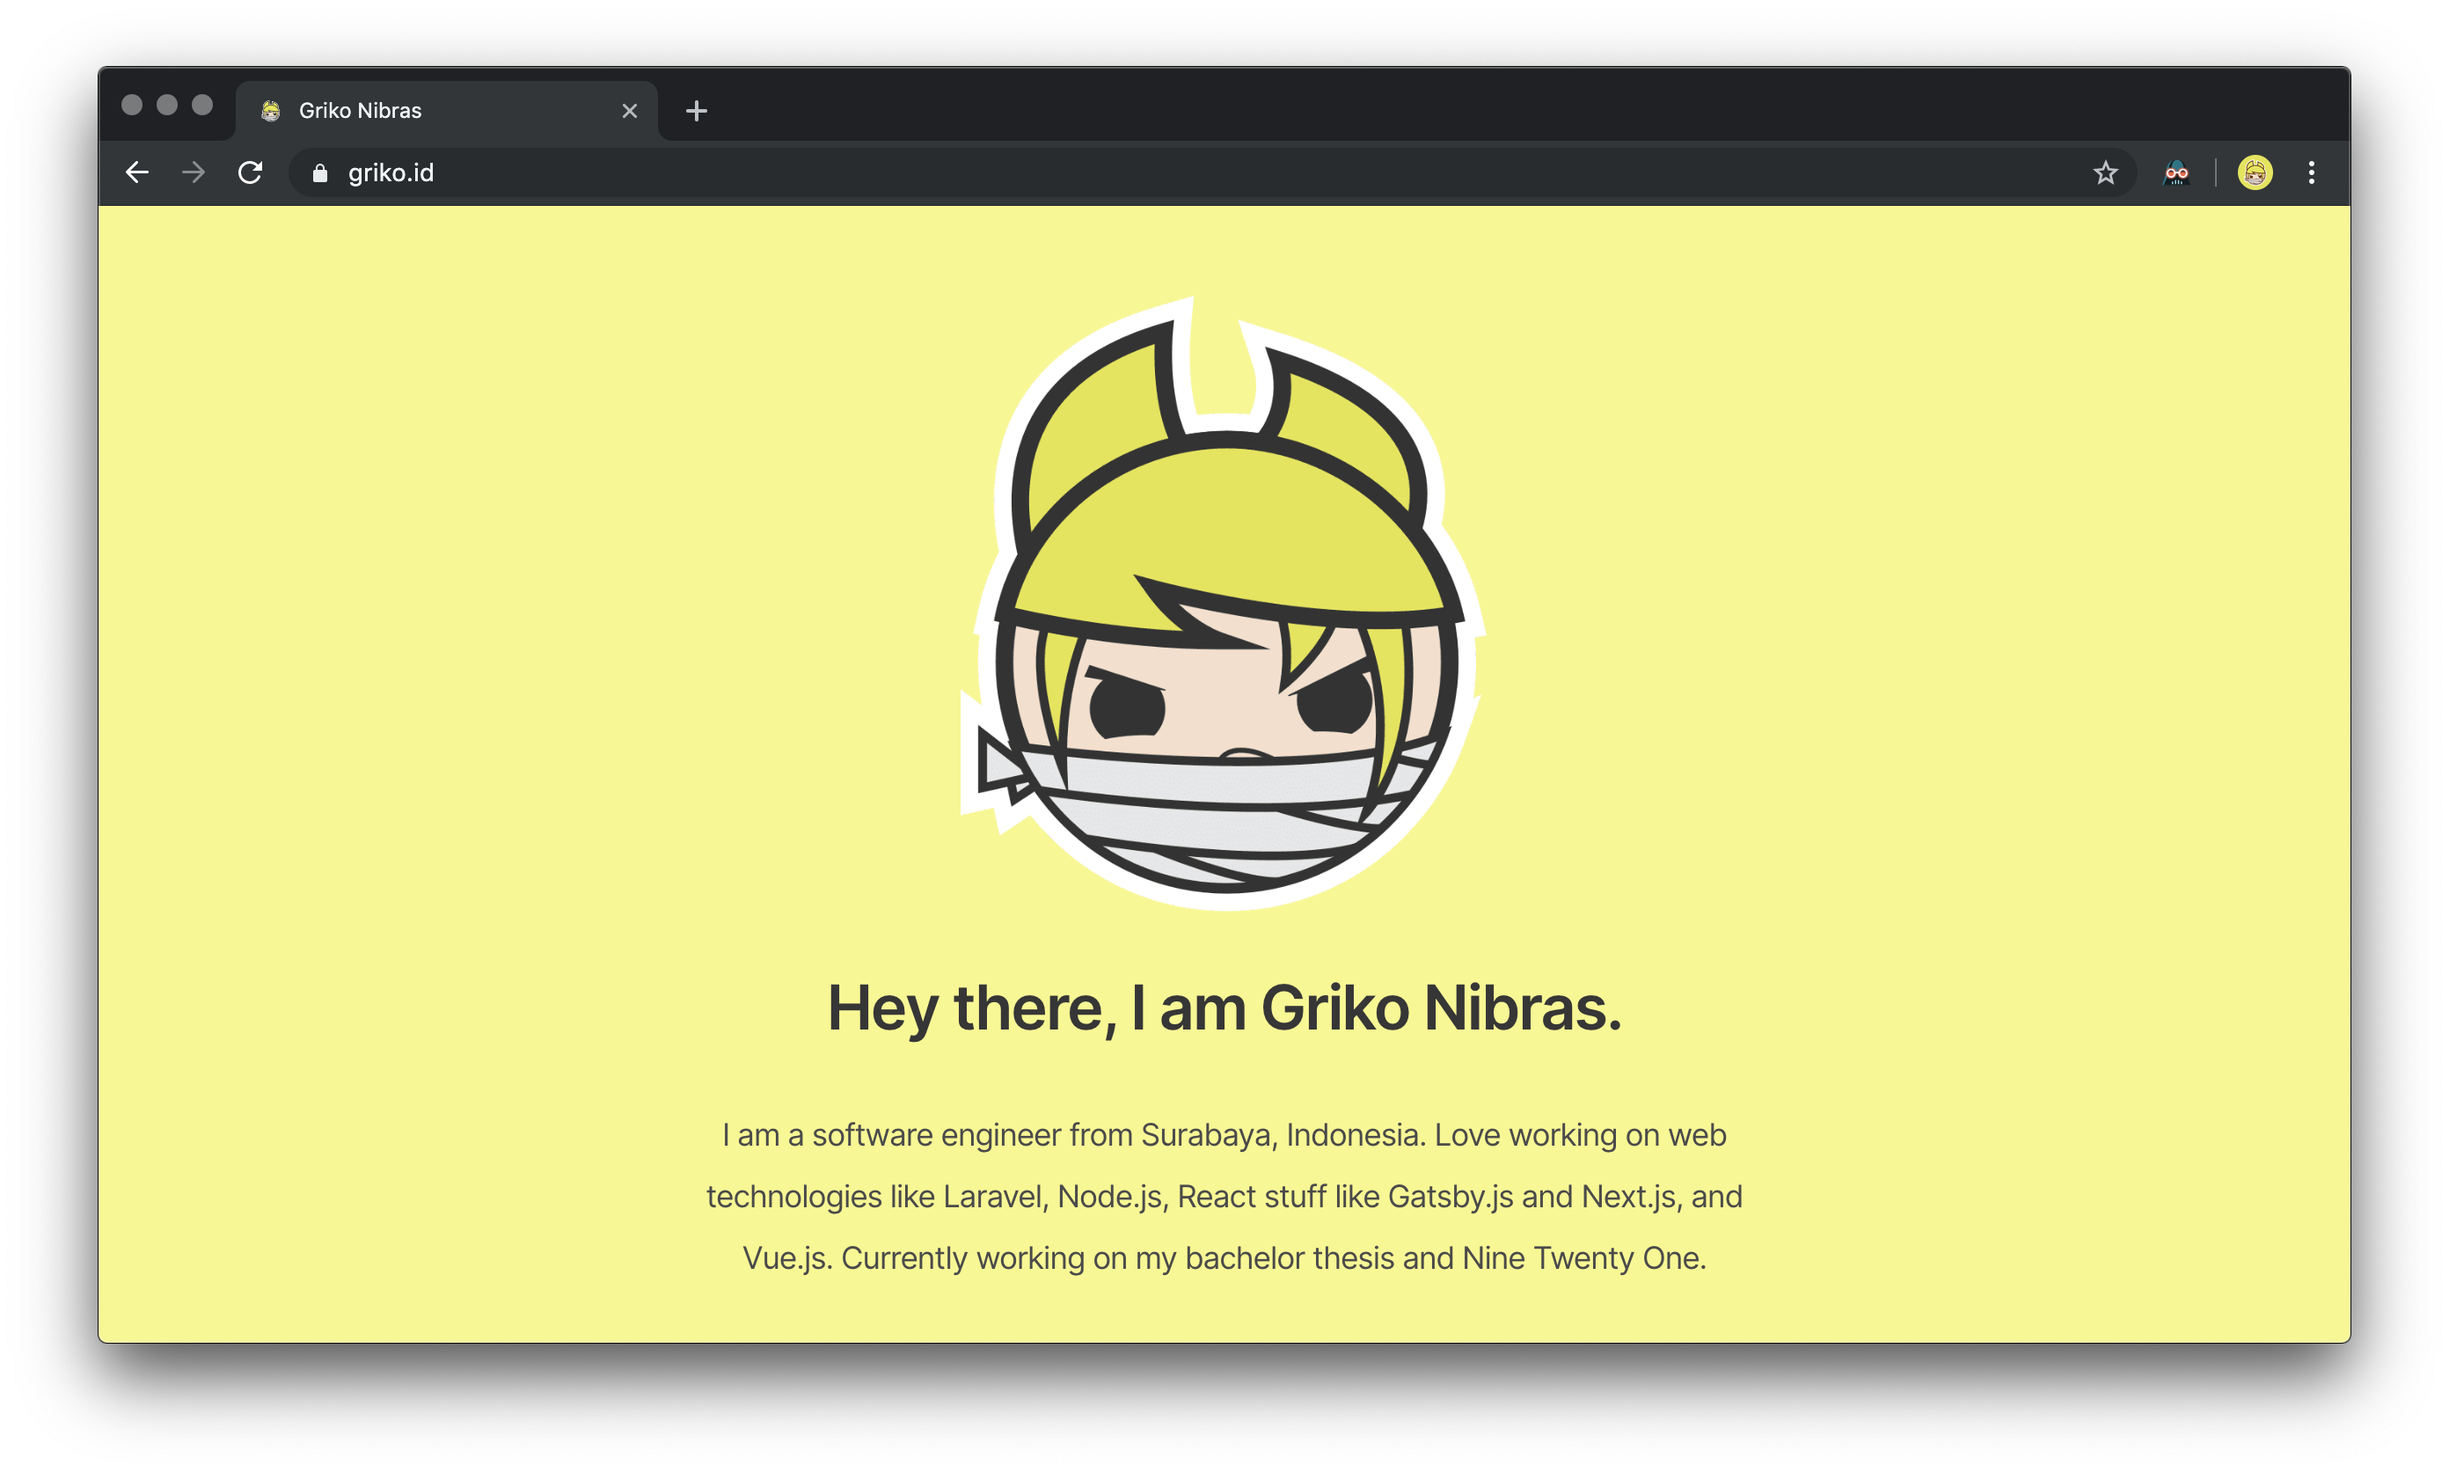
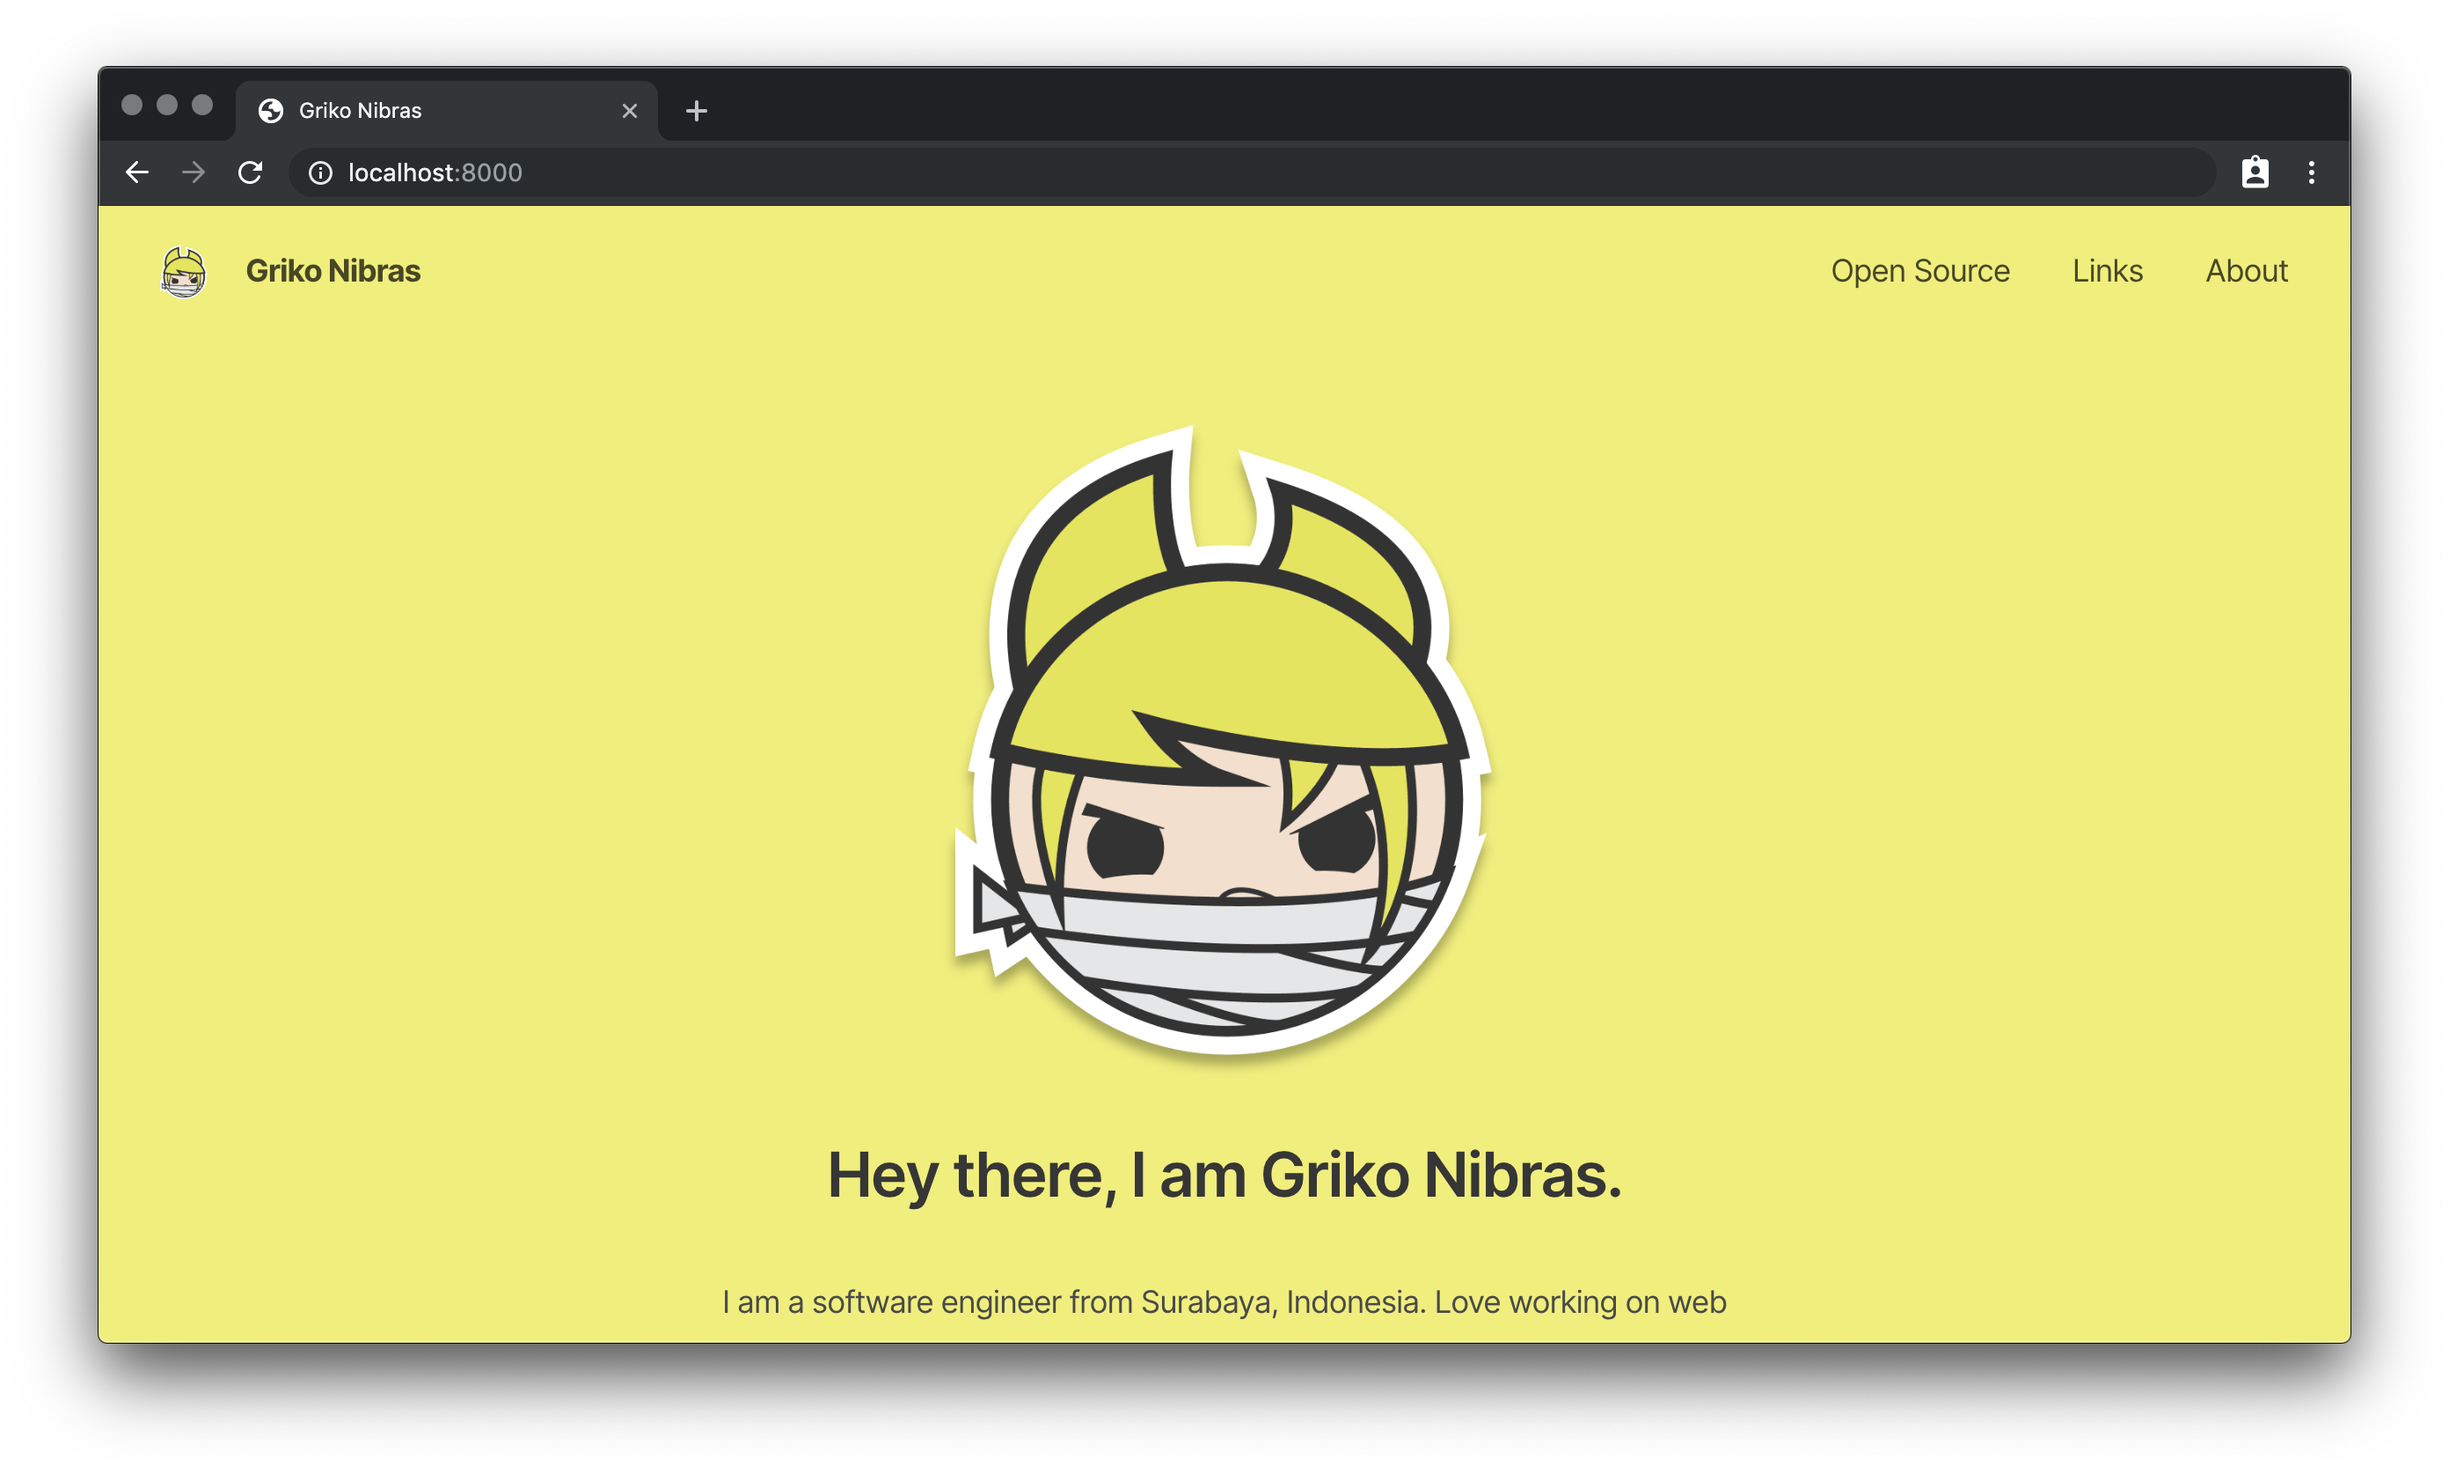
Cleanup and optimizations

diff --git a/src/pages/about.js b/src/pages/about.js
@@ -1,4 +1,3 @@
-import { Link as GatsbyLink } from 'gatsby'
 import React from 'react'
 
 import Email from '../components/Email'
@@ -6,12 +5,13 @@ import Head from '../components/Head'
 import Hero from '../components/Hero'
 import Layout from '../components/Layout'
 import Link from '../components/Link'
+import PageLink from '../components/PageLink'
 import Signature from '../components/Signature'
 
 const About = () => (
   <Layout>
     <Head pageTitle="About" />
-    <Hero className="max-width-tablet">
+    <Hero className="max-width-tablet content">
       <h1 className="title">
         My name is Griko Muhammad Sultan Nibras. That’s too long, so I mostly
         use Griko Nibras.
@@ -37,7 +37,7 @@ const About = () => (
       <br />
       <p>
         I also attend and participate in local tech communities such as{' '}
-        <Link href="https://surabaya.js.org">Surabaya.js</Link> and{' '}
+        <Link href="https://surabayajs.org">SurabayaJS</Link> and{' '}
         <Link href="http://surabayadev.org">SurabayaDev</Link>. Outside the
         programming-verse, I hang around on Twitter, or coffee shops and
         co-working spaces in real life. I don’t play games that much anymore,
@@ -48,17 +48,7 @@ const About = () => (
         Have something to work on? Or just saying hello? Do send an email to{' '}
         <Email to="hello@griko.id" /> or to <Email to="griko@pm.me" /> for
         private matters, or reach out at any social medias{' '}
-        <GatsbyLink to="/links" style={{ color: 'inherit' }}>
-          <b>listed here</b>
-        </GatsbyLink>
-        .
-      </p>
-      <br />
-      <p>
-        <small>
-          P.S. I am still working on this landing page, more pages coming soon{' '}
-          <i className="e1a-sparkles" />
-        </small>
+        <PageLink to="/links">listed here</PageLink>.
       </p>
       <br />
       <div className="has-text-centered">

diff --git a/src/pages/links.js b/src/pages/links.js
@@ -11,34 +11,31 @@ import trimProtocol from '../helpers/trimProtocol'
 const Links = ({ data }) => (
   <Layout>
     <Head pageTitle="Links" />
-    <Hero>
+    <Hero className="content">
       <h1 className="title">
         List of Links <i className="e1a-link" />
       </h1>
       <p>
-        Here is a list of various links, some are available as shortcuts (e.g.
-        my GitHub can be accessed with{' '}
-        <Link href="https://griko.dev/github">griko.dev/github</Link>)
+        Here is a list of various links, from social medias to alternate links
+        (e.g. <Link href="https://griko.dev/github">griko.dev/github</Link>)
       </p>
       <br />
-      <div className="content">
-        {data.links.edges.map(({ node }) => (
-          <React.Fragment key={node.name}>
-            <h6>{node.name}</h6>
-            <ul>
-              {node.links.sort().map(({ link, description }) => (
-                <li key={link}>
-                  <Link href={link} normal>
-                    <b>{trimProtocol(link)}</b>{' '}
-                    {description && <span>&mdash; </span>}
-                    {description}
-                  </Link>
-                </li>
-              ))}
-            </ul>
-          </React.Fragment>
-        ))}
-      </div>
+      {data.links.edges.map(({ node }) => (
+        <React.Fragment key={node.name}>
+          <h6>{node.name}</h6>
+          <ul>
+            {node.links.sort().map(({ link, description }) => (
+              <li key={link}>
+                <Link href={link} normal>
+                  <b>{trimProtocol(link)}</b>{' '}
+                  {description && <span>&mdash; </span>}
+                  {description}
+                </Link>
+              </li>
+            ))}
+          </ul>
+        </React.Fragment>
+      ))}
     </Hero>
   </Layout>
 )

diff --git a/src/pages/index.js b/src/pages/index.js
@@ -1,29 +1,40 @@
-import { graphql, Link } from 'gatsby'
+import { graphql } from 'gatsby'
 import Img from 'gatsby-image'
 import PropTypes from 'prop-types'
 import React from 'react'
+import styled from 'styled-components'
 
 import Email from '../components/Email'
 import Hero from '../components/Hero'
 import Layout from '../components/Layout'
 
+const Ainami = styled(Img)`
+  cursor: pointer;
+  filter: drop-shadow(0 6px 3px rgba(0, 0, 0, 0.3));
+  margin: auto;
+  margin-bottom: 1rem;
+  max-width: 300px;
+  transform: scale(1.02);
+  transition: all 0.3s ease;
+
+  &:hover {
+    transform: scale(1.08) rotate(1deg);
+    filter: drop-shadow(0 6px 6px rgba(0, 0, 0, 0.2));
+  }
+
+  &:active {
+    transform: scale(1.04) rotate(0.5deg);
+  }
+`
+
 const Index = ({ data }) => (
   <Layout className="has-background-warning" hideFooter>
     <Hero className="has-text-centered max-width-tablet">
       <figure className="image">
-        <Img
-          fluid={data.img.childImageSharp.fluid}
-          style={{ maxWidth: '300px', margin: 'auto' }}
-        />
+        <Ainami fluid={data.img.childImageSharp.fluid} />
       </figure>
       <br />
-      <h1 className="title is-marginless">
-        Hey there, I am{' '}
-        <Link to="/about" style={{ color: 'inherit' }}>
-          Griko Nibras
-        </Link>
-        .
-      </h1>
+      <h1 className="title is-marginless">Hey there, I am Griko Nibras.</h1>
       <br />
       <p>
         I am a software engineer from Surabaya, Indonesia. Love working on web
@@ -49,7 +60,7 @@ export const query = graphql`
   {
     img: file(relativePath: { eq: "Ainami.png" }) {
       childImageSharp {
-        fluid(maxWidth: 384) {
+        fluid {
           ...GatsbyImageSharpFluid
         }
       }

diff --git a/src/pages/open-source.js b/src/pages/open-source.js
@@ -10,7 +10,7 @@ import Link from '../components/Link'
 const OpenSource = ({ data }) => (
   <Layout>
     <Head pageTitle="Open Source" />
-    <Hero>
+    <Hero className="content">
       <h1 className="title">
         Open Source <i className="e1a-sparkles" />
       </h1>
@@ -18,22 +18,20 @@ const OpenSource = ({ data }) => (
         Here are GitHub repositories that I authored, contribute, and maintain
       </p>
       <br />
-      <div className="content">
-        {data.repos.edges.map(({ node }) => (
-          <React.Fragment key={node.type}>
-            <h6>{node.type}</h6>
-            <ul>
-              {node.repos.map(({ name, description, url }) => (
-                <li key={name}>
-                  <Link href={url} normal>
-                    <b>{name}</b> - {description}
-                  </Link>
-                </li>
-              ))}
-            </ul>
-          </React.Fragment>
-        ))}
-      </div>
+      {data.repos.edges.map(({ node }) => (
+        <React.Fragment key={node.type}>
+          <h6>{node.type}</h6>
+          <ul>
+            {node.repos.map(({ name, description, url }) => (
+              <li key={name}>
+                <Link href={url} normal>
+                  <b>{name}</b> - {description}
+                </Link>
+              </li>
+            ))}
+          </ul>
+        </React.Fragment>
+      ))}
     </Hero>
   </Layout>
 )

diff --git a/src/components/Signature.js b/src/components/Signature.js
@@ -1,6 +1,12 @@
 import { graphql, StaticQuery } from 'gatsby'
 import Img from 'gatsby-image'
 import React from 'react'
+import styled from 'styled-components'
+
+const Sig = styled(Img)`
+  margin: auto;
+  max-width: 128px;
+`
 
 const Signature = () => (
   <StaticQuery
@@ -16,11 +22,7 @@ const Signature = () => (
       }
     `}
     render={data => (
-      <Img
-        alt="Signature"
-        fluid={data.sig.childImageSharp.fluid}
-        style={{ maxWidth: '128px', margin: 'auto' }}
-      />
+      <Sig alt="Signature" fluid={data.sig.childImageSharp.fluid} />
     )}
   />
 )

diff --git a/src/components/PageLink.js b/src/components/PageLink.js
@@ -1,7 +1,8 @@
+import { Link } from 'gatsby'
 import PropTypes from 'prop-types'
 import styled from 'styled-components'
 
-const Link = styled.a`
+const PageLink = styled(Link)`
   color: inherit;
   font-weight: ${props => (props.normal ? 'normal' : 'bold')};
 
@@ -10,13 +11,8 @@ const Link = styled.a`
   }
 `
 
-Link.propTypes = {
+PageLink.propTypes = {
   normal: PropTypes.bool,
 }
 
-Link.defaultProps = {
-  rel: 'noopener noreferrer',
-  target: 'blank',
-}
-
-export default Link
+export default PageLink

diff --git a/src/components/Footer.js b/src/components/Footer.js
@@ -12,7 +12,7 @@ const Footer = () => {
           Handcrafted with <i className="e1a-heart" /> by myself. Copyright
           &copy; {currentYear}. <br />
           Made with <Link href="https://bulma.io">Bulma</Link> and{' '}
-          <Link href="https://gatsbyjs.org">Gatsby.js</Link>.
+          <Link href="https://gatsbyjs.org">GatsbyJS</Link>.
         </p>
         <br />
         <p>

diff --git a/README.md b/README.md
@@ -2,7 +2,7 @@
 
 <div align="center">
 
-# `grikomsn/landing-page`
+# grikomsn/landing-page
 
 Third iteration of my personal landing page ✨
 
@@ -11,6 +11,8 @@ Third iteration of my personal landing page ✨
 
 ![preview](preview.png)
 
-Heavily based on [fabe/gatsby-universal](https://github.com/fabe/gatsby-universal) using [Gatsby.js](https://www.gatsbyjs.org/). Hosted on [ZEIT Now](https://griko.now.sh).
+Heavily based on [fabe/gatsby-universal](https://github.com/fabe/gatsby-universal).
+
+Made with [Bulma](https://bulma.io) and [GatsbyJS](https://gatsbyjs.org). Hosted on [ZEIT Now](https://zeit.co/now).
 
 </div>
